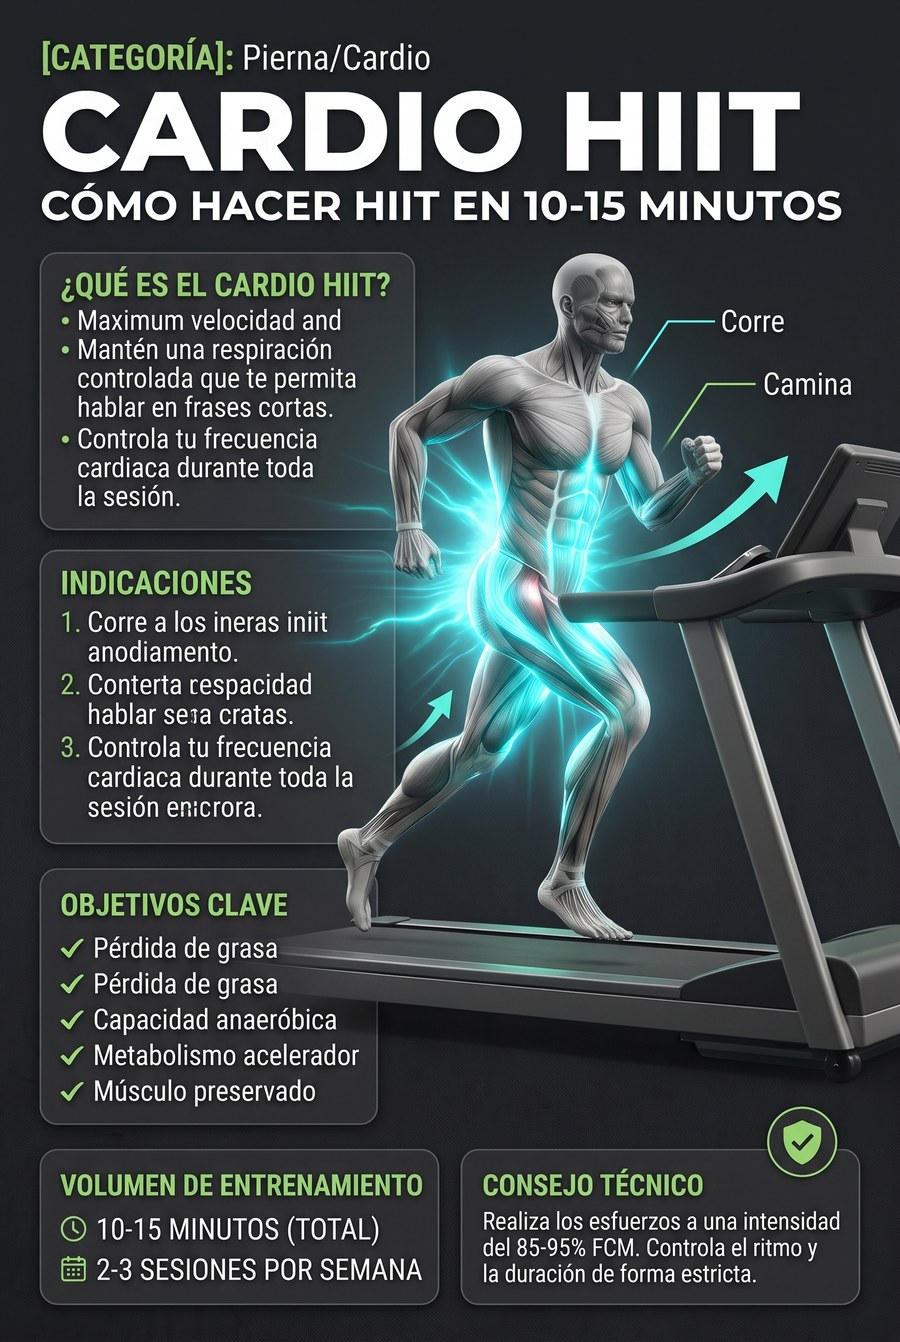
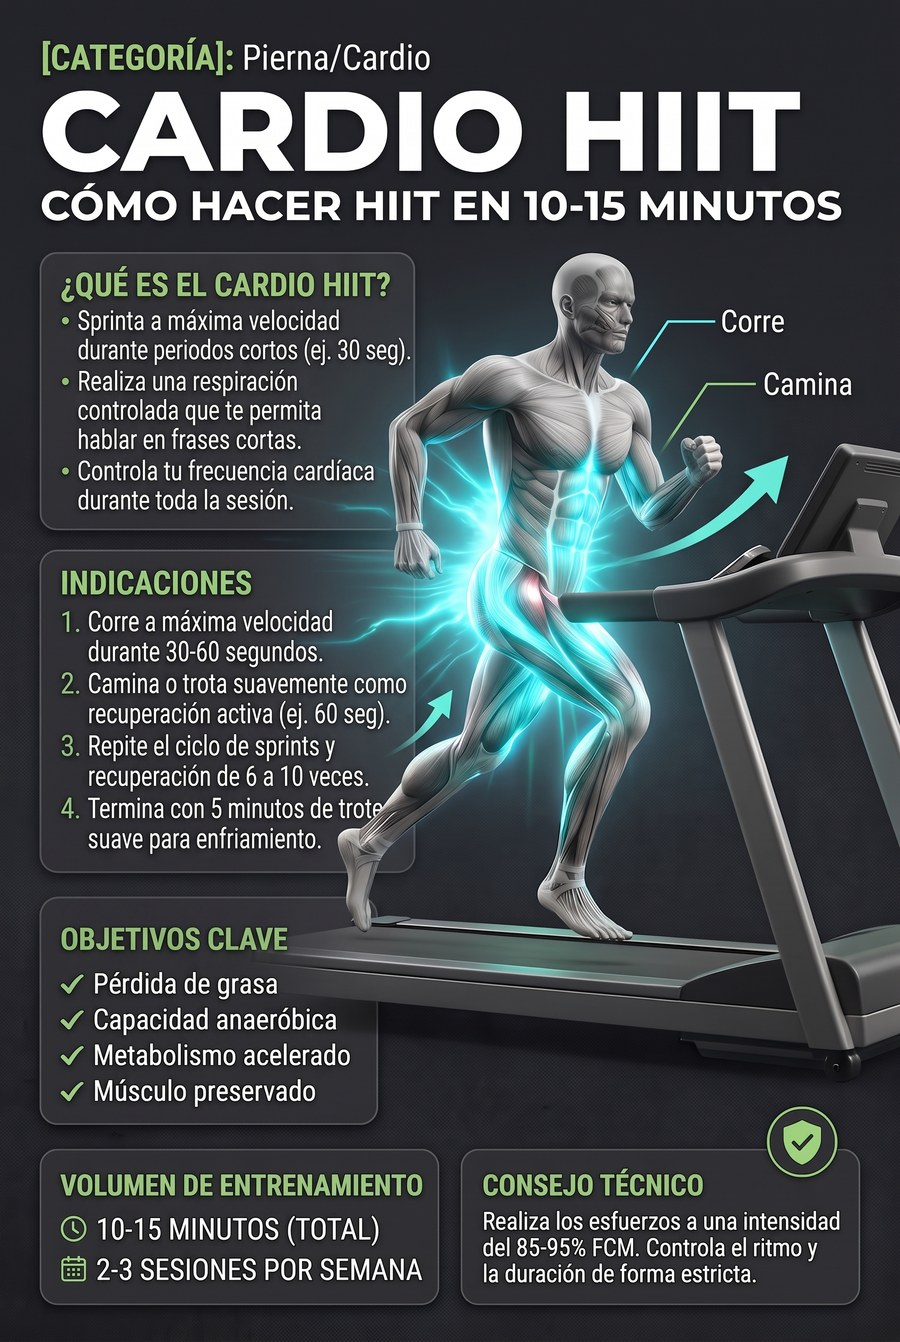
fix: regenera las ilustraciones de cardio y agrega la de fondos en barra

diff --git a/lib/routine.ts b/lib/routine.ts
@@ -667,7 +667,7 @@ const CATALOGO: Record<string, Ejercicio> = {
     musculos: [{ nombre: 'Pectoral superior', principal: true }, { nombre: 'Deltoides anteriores', principal: false }],
     consejoTecnico: 'Movimiento en arco, sin bajar más de lo que tu hombro tolere.',
   } },
-  fondos_barra: { id: 'fondos_barra', nombre: 'Fondos en barra (con o sin lastre)', grupo: 'Pecho', grupoMuscular: 'pecho', series: 4, reps: '10-12', descansoSeg: 90, tempo: '3-1-1', alternativaId: 'crossover_polea_alta', guia: {
+  fondos_barra: { id: 'fondos_barra', nombre: 'Fondos en barra (con o sin lastre)', grupo: 'Pecho', grupoMuscular: 'pecho', imagenExplicacion: '/explicaciones/fondos-barra.png', series: 4, reps: '10-12', descansoSeg: 90, tempo: '3-1-1', alternativaId: 'crossover_polea_alta', guia: {
     indicaciones: [
       'Sujétate en las barras paralelas con los brazos extendidos.',
       'Baja inclinando el torso hacia adelante hasta sentir el pecho.',

diff --git a/ESTADO.md b/ESTADO.md
@@ -1,9 +1,11 @@
 # ESTADO — GymEvo (nombre tentativo: Método Cero)
 Última actualización: 2026-09-21 | Sesión actual: 10 (en curso)
 
-⏸ CHECKPOINT — Checkout de Hotmart con la identidad de GymEvo (21/09/2026). Página "En blanco" publicada como estándar en Apariencia de la Página de Pago (fondo #12161c, fuente Open Sans, banner `docs/hotmart/banner-checkout-1000x500.png`). El diseño solo se aplica si el link lleva `&checkoutMode=10`: los 3 links de `NEXT_PUBLIC_HOTMART_CHECKOUT_{MENSUAL,SEMESTRAL,ANUAL}` (`.env.local` y Vercel) ya lo llevan (mensual=off vjbww2ic, semestral=off vq9yrag9, anual=off d3r4zosw). `lib/planes.ts` lee el código `off` de esos links (webhook), y `checkoutMode` no lo afecta. Pendiente: confirmar en producción que onboarding→paywall llega al checkout oscuro, y versión ancha del banner para computador.
+⏸ CHECKPOINT — Checkout de Hotmart con la identidad de GymEvo (21/09/2026). Página "En blanco" publicada como estándar en Apariencia de la Página de Pago (fondo #12161c, fuente Open Sans, banner `docs/hotmart/banner-checkout-1000x500.png`). El diseño solo se aplica si el link lleva `&checkoutMode=10`: los 3 links de `NEXT_PUBLIC_HOTMART_CHECKOUT_{MENSUAL,SEMESTRAL,ANUAL}` (`.env.local` y Vercel) ya lo llevan (mensual=off vjbww2ic, semestral=off vq9yrag9, anual=off d3r4zosw). `lib/planes.ts` lee el código `off` de esos links (webhook), y `checkoutMode` no lo afecta. Checkout FINALIZADO y confirmado por el usuario (21/09/2026). Pendiente menor: versión ancha del banner para computador (opcional).
 
-⏸ CHECKPOINT — Excel `rutinas_gymevo_variaciones.xlsx` APLICADO (21/09/2026). Columna "Ejercicio" = ejercicio por defecto en las rutinas; columna "Alternativa" = `alternativaId` del Botón de Rescate (relación direccional). `lib/routine.ts`: 20 ejercicios nuevos en `CATALOGO`, splits Principiante/Intermedio actualizados (hammer, polea, máquina, remo mancuerna banco, hip thrust/peso muerto en máquina), 6 renombres, `zancadas` con "10-12 por pierna". 10 ilustraciones nuevas en `public/explicaciones/`. Cardio: `cardio-hiit.jpg`/`cardio-zona2.jpg` reemplazados y botón "Explicación del cardio" en `app/app/page.tsx` (el campo `imagen` antes no se mostraba). Sin ilustración aún (silueta de respaldo): press_inclinado_hammer, pajaros_maquina, peso_muerto_maquina, curl_hammer_polea_baja, curl_scott_barra_z, remo_mancuerna_pie, fondos_barra, aductor_interno_polea, sentadilla_smith, prensa_unilateral, press_frances_polea_alta. Dudas del Excel sin responder (se dejó lo que había): filas 1, 3, 8, 22. Los cardios nuevos traen texto con errores de IA ("ineras iniit anodiamento") — pendiente regenerar. `crunch_superior_horizontal` ("máquina") usa la imagen del banco. tsc ✓ build ✓ lint ✓; probado en navegador (martes + rescate + modal cardio).
+⏸ CHECKPOINT — Excel `rutinas_gymevo_variaciones.xlsx` APLICADO (21/09/2026). Columna "Ejercicio" = ejercicio por defecto en las rutinas; columna "Alternativa" = `alternativaId` del Botón de Rescate (relación direccional). `lib/routine.ts`: 20 ejercicios nuevos en `CATALOGO`, splits Principiante/Intermedio actualizados (hammer, polea, máquina, remo mancuerna banco, hip thrust/peso muerto en máquina), 6 renombres, `zancadas` con "10-12 por pierna". 10 ilustraciones nuevas en `public/explicaciones/`. Cardio: `cardio-hiit.jpg`/`cardio-zona2.jpg` reemplazados y botón "Explicación del cardio" en `app/app/page.tsx` (el campo `imagen` antes no se mostraba). Sin ilustración aún (silueta de respaldo): press_inclinado_hammer, pajaros_maquina, peso_muerto_maquina, curl_hammer_polea_baja, curl_scott_barra_z, remo_mancuerna_pie, aductor_interno_polea, sentadilla_smith, prensa_unilateral, press_frances_polea_alta. Dudas del Excel sin responder (se dejó lo que había): filas 1, 3, 8, 22. `crunch_superior_horizontal` ("máquina") usa la imagen del banco. tsc ✓ build ✓ lint ✓; probado en navegador (martes + rescate + modal cardio).
+
+⏸ CHECKPOINT — Regeneración de cardios + `fondos_barra` con ilustración (22/09/2026). El usuario regeneró `cardio-hiit`/`cardio-zona2` con texto correcto (sin los errores de IA de la ronda anterior) — reemplazados en `public/explicaciones/`. También apareció en la carpeta Ejercicios una tarjeta de "Fondos en paralelas para pecho" (acento cian, plantilla distinta a las demás) que coincide con `fondos_barra`: se recortó solo la ilustración (sin título ni caja de indicaciones) y se recoloreó de cian a verde de marca con `sharp .modulate({hue:-70})` — OJO: para ESTE archivo concreto la rotación de hue no fue lineal con el cálculo HSL manual (se esperaba ~-104° y el verde lima real salió en -70°; usar prueba visual, no la fórmula, si se recolorea otra imagen de este mismo lote/generador). Quedan 10 ejercicios sin ilustración (ver lista arriba, sin `fondos_barra`). tsc ✓. Verificación en navegador NO completada esta vuelta: el puerto 3000 lo tiene tomado el dev server de OTRA sesión trabajando en esta misma carpeta (`app/app/calendario/*`, cambios de rachas/opciones de descanso en `app/app/page.tsx`, carpeta nueva `app/preview-temp-cal2/`) — se dejaron esos archivos intactos, sin agregarlos al commit, y el intento de abrir el puerto propio (60088) y luego el 3000 se quedó colgado en el navegador integrado; pendiente confirmar visualmente en cuanto el puerto quede libre.
 
 ⏸ CHECKPOINT — CALENDARIO DE ENTRENAMIENTOS (21/09/2026, pedido del usuario): nueva pestaña 'Calendario' en el menú inferior (`app/app/layout.tsx`, ahora 4 pestañas). Cada día del mes se pinta: ROJO = tocaba entrenar y no se registró nada; AMARILLO = entre 1% y menos de 80% de la rutina; VERDE = 80% o más; descanso (punteado, luna) = día de descanso cerrado; hoy = borde lima. Navegación entre meses (no permite el futuro), leyenda y resumen del mes. **Tocar un día abre su resumen** (`/app/calendario/[fecha]`): estado, % y series hechas vs las que tocaban, nombre de la rutina y cada serie con peso × repeticiones (y esfuerzo si lo hubo); botón 'Ir al plan de hoy' / 'Seguir con mi plan' cuando aplica. Lógica pura en `lib/calendario.ts`; datos en `lib/useProgresoCalendario.ts` (local + remoto).
 - **Cómo se calcula**: el plan avanza por 'día de programa' (no por fecha), así que la rutina de una fecha pasada NO está guardada: se deduce comparando los ejercicios registrados ese día con los 6 días del programa (gana el que más coincide, cuenta el alternativo del Botón de Rescate); % = series registradas / series de esa rutina. Un día sin registros es rojo solo entre el primer entrenamiento registrado y ayer; hoy sin registros no es rojo todavía. Descansos: se guardan desde ahora en `Progreso.diasDescanso` (solo en el dispositivo, no se sincroniza) y, para historial anterior, se infieren dentro de la racha vigente. Límites: si alguien cambió de ruta (Principiante↔Intermedio) el % de días viejos usa la ruta actual; en otro dispositivo se pierden los descansos guardados solo local.
